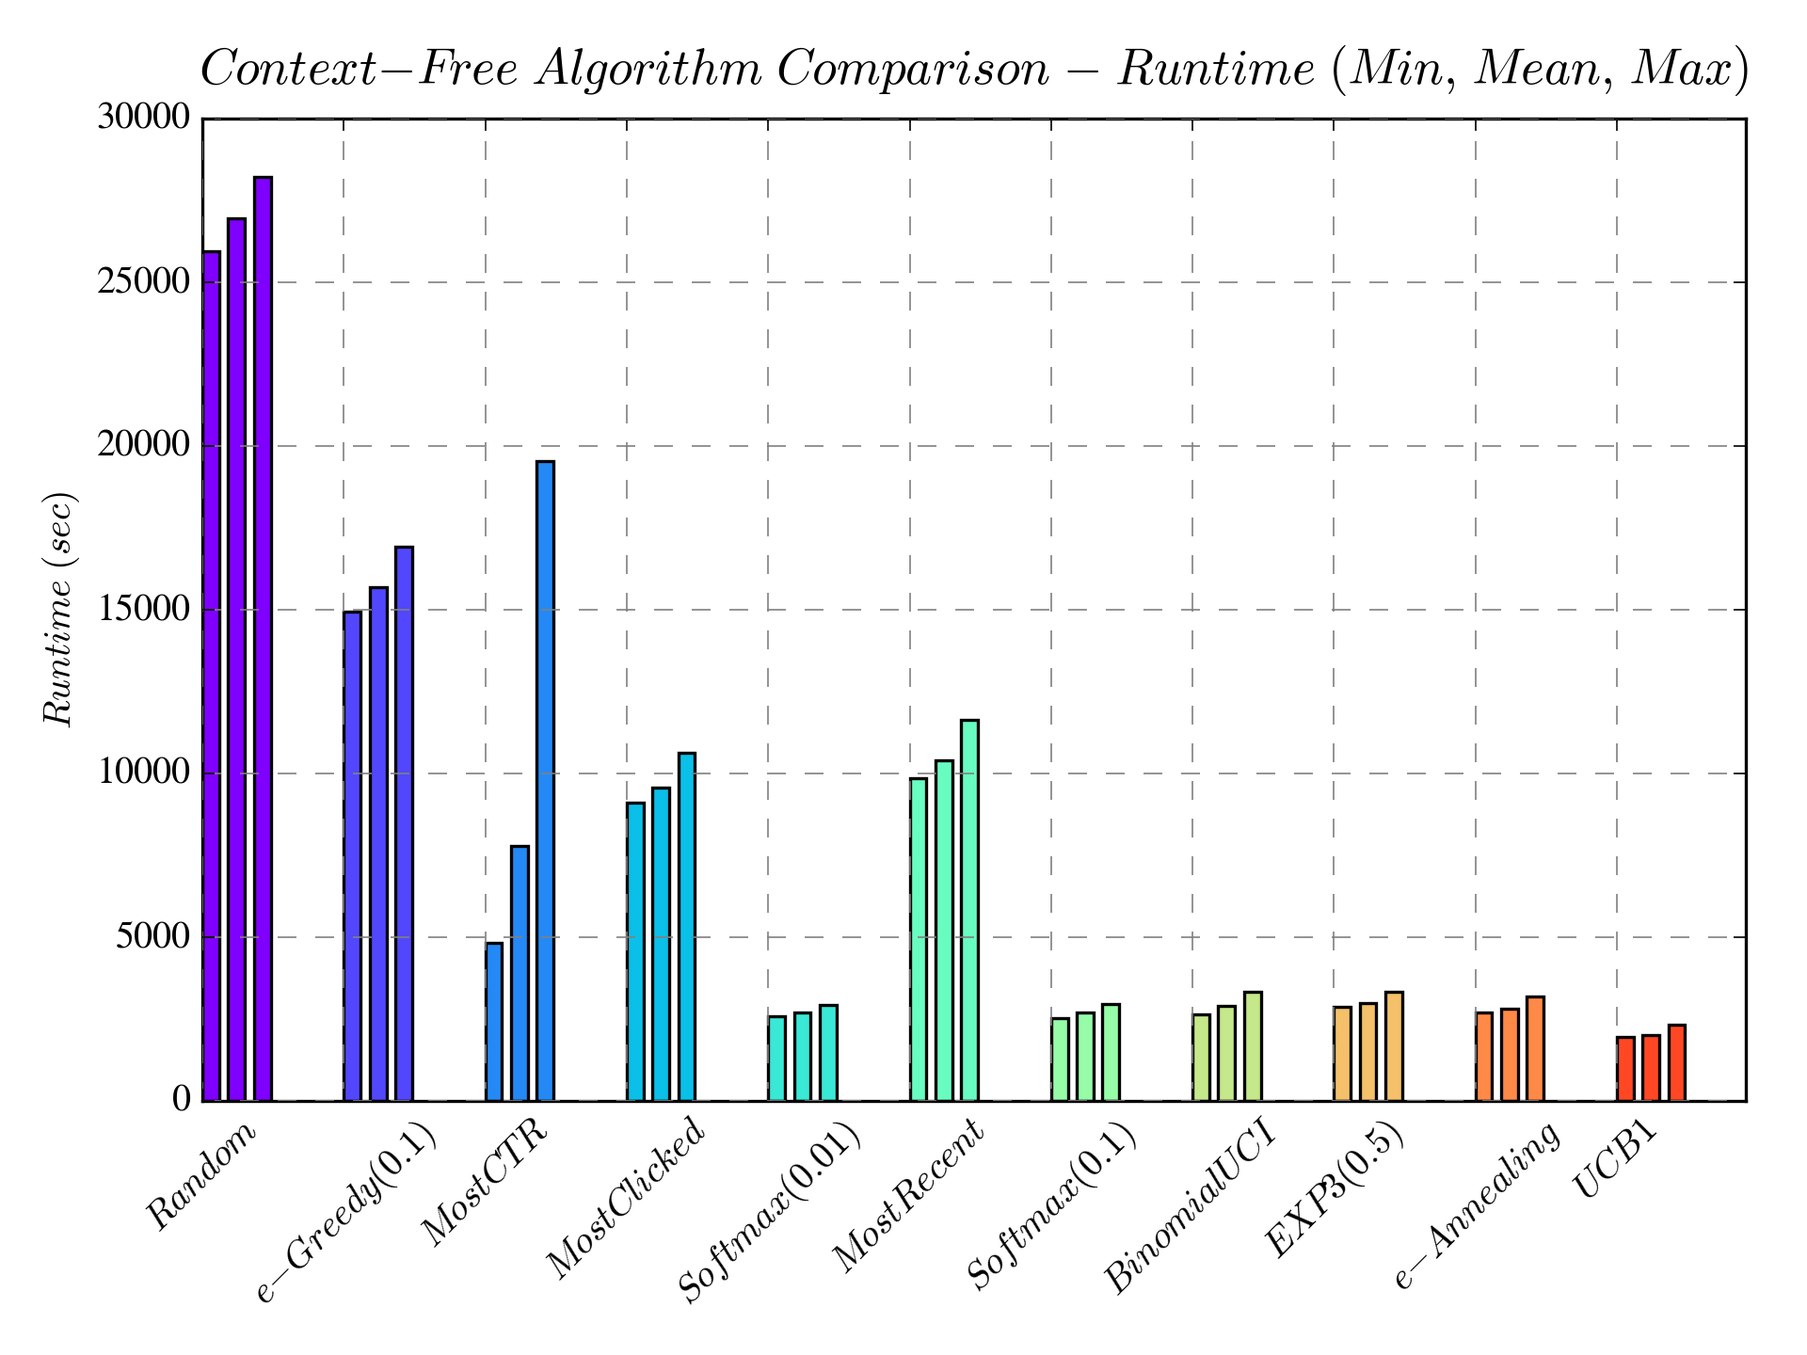
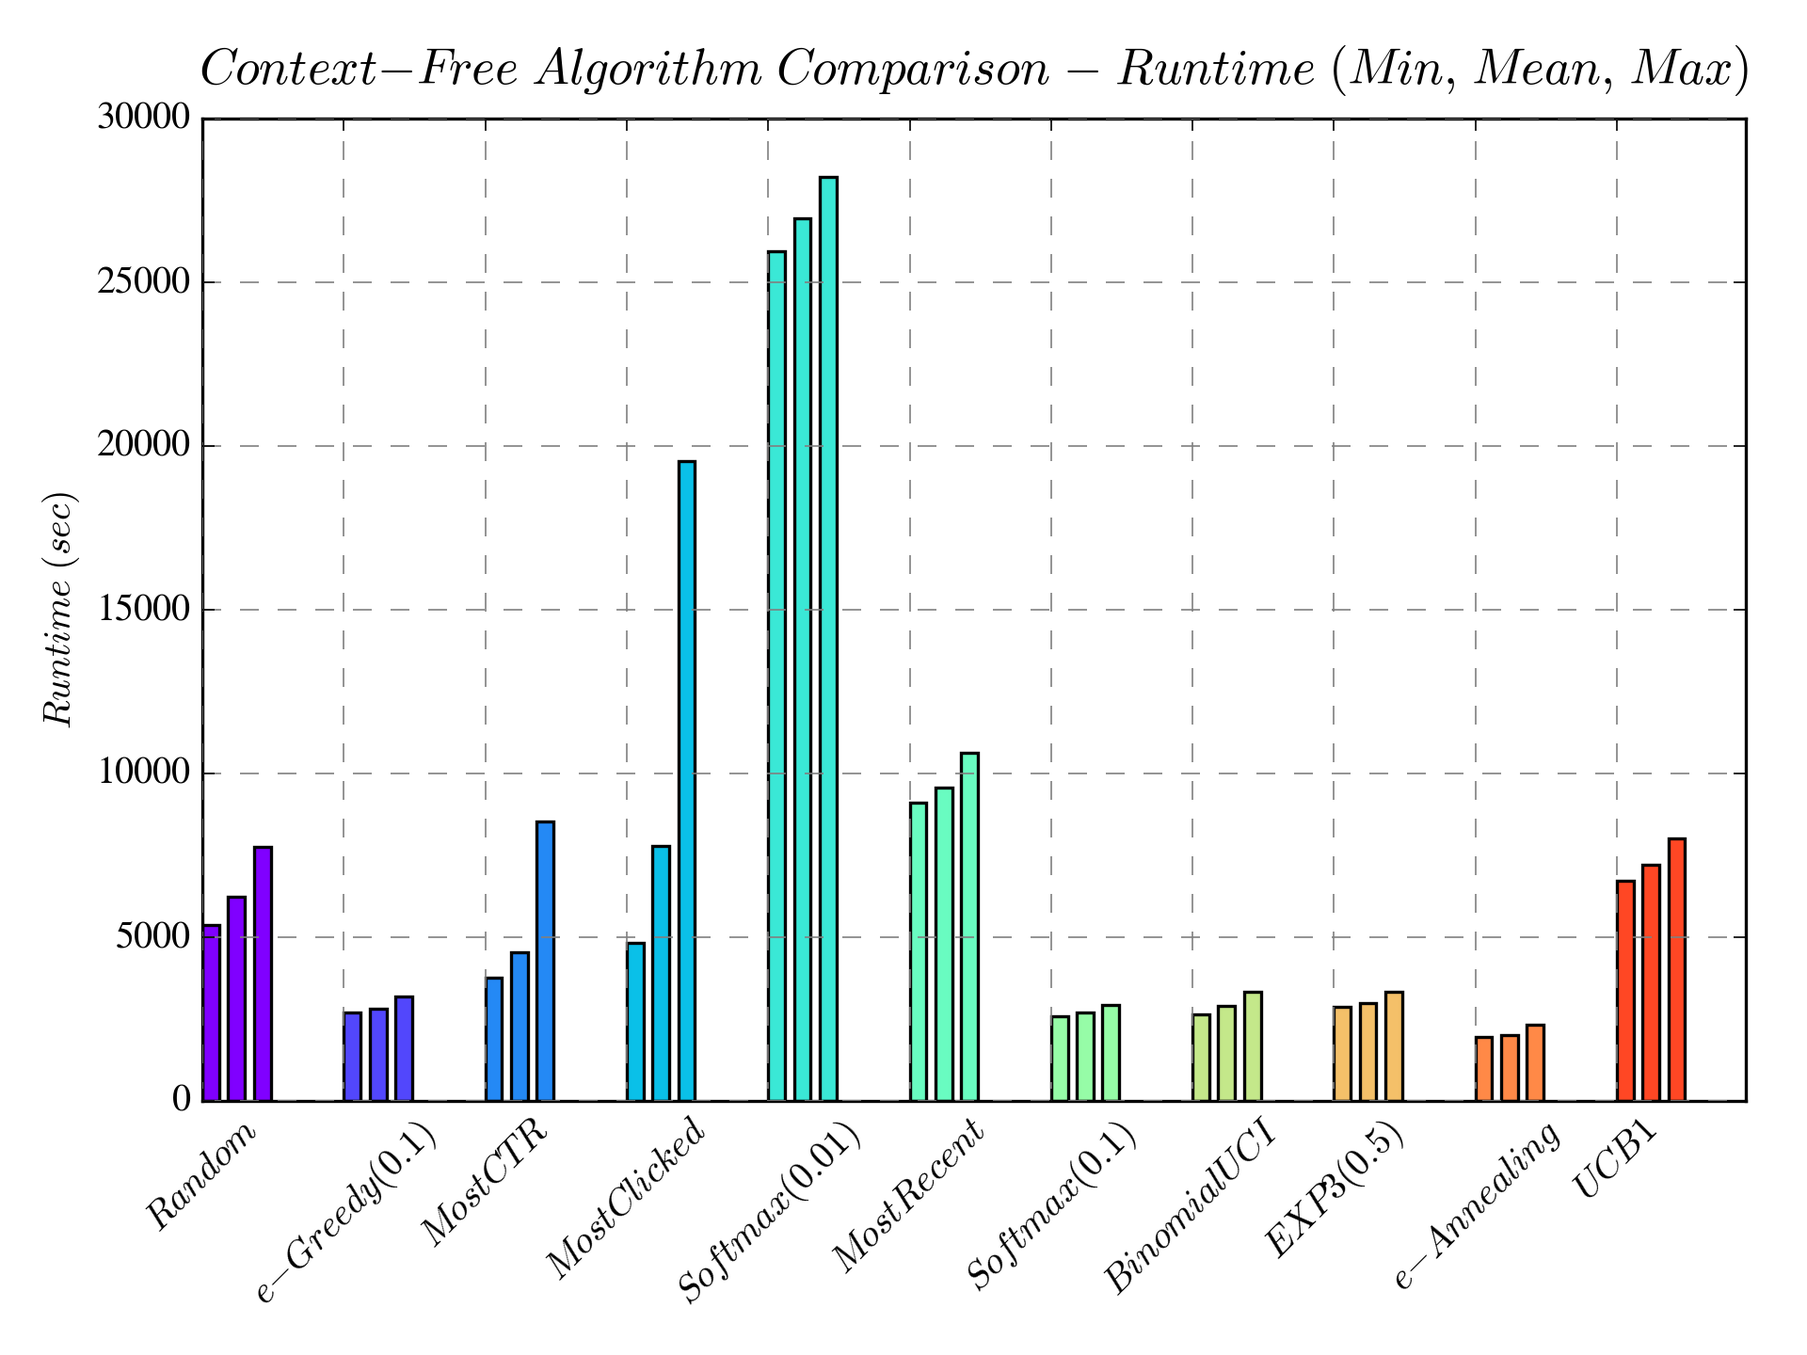
Adding delta plots

diff --git a/create_delta_aer_plot_ensemble.py b/create_delta_aer_plot_ensemble.py
@@ -1,0 +1,55 @@
+__author__ = 'bixlermike'
+
+#/usr/local/bin/python
+
+import matplotlib
+from matplotlib import rc
+from matplotlib.font_manager import FontProperties
+from matplotlib.ticker import MaxNLocator, FormatStrFormatter
+import matplotlib.pyplot as plt
+import numpy as np
+matplotlib.rcParams['mathtext.fontset'] = 'cm'
+matplotlib.rcParams['font.family'] = 'STIXGeneral'
+
+majorFormatter = FormatStrFormatter('%d')
+
+data = np.genfromtxt('banditMaxAERSummary.csv', delimiter=',', names = True)
+data2 = np.genfromtxt('banditMeanAERSummary.csv', delimiter=',', names = True)
+data3 = np.genfromtxt('banditMinAERSummary.csv', delimiter=',', names = True)
+
+fig = plt.figure()
+ax = fig.add_subplot(111)
+
+ax.set_title(r"$Ensemble\ Algorithm\ Comparison\ -\ Delta\ Relative\ AER$", fontsize='16', y=1.02)
+ax.set_xlabel(r"$Number\ of\ Evaluations$")
+ax.set_ylabel(r"$Delta\ Relative\ AER$")
+
+ax.plot(data['NumEvals'],(data['EnsembleRandom']-data3['EnsembleRandom'])/data2['Random'], lw='1.25', label=r'$EnsRandom$', marker='s', markevery=500, fillstyle='none')
+ax.plot(data['NumEvals'],(data['EnsembleRandomUpdateAll']-data3['EnsembleRandomUpdateAll'])/data2['Random'], lw='1.25', label=r'$EnsRandomUpdateAll$', marker='v', markevery=500, fillstyle='none')
+ax.plot(data['NumEvals'],(data['EnsembleEAnnealing']-data3['EnsembleEAnnealing'])/data2['Random'], lw='1.25', label=r'$EnsEAnnealing$', marker='^', markevery=500, fillstyle='none')
+ax.plot(data['NumEvals'],(data['EnsembleBayesian']-data3['EnsembleBayesian'])/data2['Random'], lw='1.25', label=r'$EnsBayesian$', marker='s', markevery=500, fillstyle='none')
+ax.plot(data['NumEvals'],(data['EnsembleBinomialUCI']-data3['EnsembleBinomialUCI'])/data2['Random'], lw='1.25', label=r'$EnsBinomialUCI$', marker='*', markevery=500, fillstyle='none')
+ax.plot(data['NumEvals'],(data['EnsembleSoftmax001']-data3['EnsembleSoftmax001'])/data2['Random'], lw='1.25', label=r'$EnsSoftmax0.01$', color='deepskyblue', marker='>', markevery=500, fillstyle='none')
+ax.plot(data['NumEvals'],(data['EnsembleBinomialUCIMod1']-data3['EnsembleBinomialUCIMod1'])/data2['Random'], lw='1.25', label=r'$EBUCIM1$', marker='+', markevery=500, fillstyle='none')
+ax.plot(data['NumEvals'],(data['EnsembleBinomialUCIMod2']-data3['EnsembleBinomialUCIMod2'])/data2['Random'], lw='1.25', label=r'$EBUCIM2$', color='fuchsia', marker='D', markevery=500, fillstyle='none')
+
+box = ax.get_position()
+ax.set_position([box.x0, box.y0, box.width * 0.8, box.height])
+fontP = FontProperties()
+fontP.set_size('small')
+ax.legend(loc='center left', bbox_to_anchor=(1, 0.5), prop = fontP)
+ax.get_xaxis().set_major_locator(MaxNLocator(integer=True))
+ax.set_xticklabels(ax.xaxis.get_majorticklocs(), rotation=45)
+ax.set_xlim([0, max(data['NumEvals'])])
+ax.set_axisbelow(True)
+#ax.set_ylim([0.8,2.5])
+ax.xaxis.grid(color='gray', linestyle='dashed')
+ax.yaxis.grid(color='gray', linestyle='dashed')
+#ax.get_xaxis().set_major_locator(MaxNLocator(integer=True))
+ax.xaxis.set_major_formatter(majorFormatter)
+#for ymaj in ax1.yaxis.get_majorticklocs():
+#    ax1.axhline(y=ymaj,ls='-')
+
+plt.savefig("plots/deltaAEREnsemble.png", dpi=240, bbox_inches='tight')
+
+

diff --git a/create_delta_aer_plot_contextual.py b/create_delta_aer_plot_contextual.py
@@ -1,0 +1,55 @@
+__author__ = 'bixlermike'
+
+#/usr/local/bin/python
+
+import matplotlib
+from matplotlib import rc
+from matplotlib.font_manager import FontProperties
+from matplotlib.ticker import MaxNLocator, FormatStrFormatter
+import matplotlib.pyplot as plt
+import numpy as np
+matplotlib.rcParams['mathtext.fontset'] = 'cm'
+matplotlib.rcParams['font.family'] = 'STIXGeneral'
+
+
+majorFormatter = FormatStrFormatter('%d')
+
+data = np.genfromtxt('banditMaxAERSummary.csv', delimiter=',', names = True)
+data2 = np.genfromtxt('banditMeanAERSummary.csv', delimiter=',', names = True)
+data3 = np.genfromtxt('banditMinAERSummary.csv', delimiter=',', names = True)
+
+fig = plt.figure()
+ax = fig.add_subplot(111)
+
+ax.set_title(r"$Contextual\ Algorithm\ Comparison\ -\ Delta\ Relative\ AER$", fontsize='16', y=1.02)
+ax.set_xlabel(r"$Number\ of\ Evaluations$")
+ax.set_ylabel(r"$Delta\ Relative\ AER$")
+
+#ax.plot(data['NumEvals'],data['Random'], label='Random')
+ax.plot(data['NumEvals'],(data['eGreedyContextual01']-data3['eGreedyContextual01'])/data2['Random'], lw='1.25', label=r'$e-Greedy(0.1)$', marker='s', markevery=500, fillstyle='none')
+ax.plot(data['NumEvals'],(data['eAnnealingContextual']-data3['eAnnealingContextual'])/data2['Random'], lw='1.25', label=r'$eAnnealing$', marker='v', markevery=500, fillstyle='none')
+ax.plot(data['NumEvals'],(data['SoftmaxContextual001']-data3['SoftmaxContextual001'])/data2['Random'], lw='1.25', label=r'$Softmax(0.01)$', marker='>', markevery=500, fillstyle='none')
+ax.plot(data['NumEvals'],(data['SoftmaxContextual01']-data3['SoftmaxContextual01'])/data2['Random'], lw='1.25', label=r'$Softmax(0.1)$', marker='^', markevery=500, fillstyle='none')
+ax.plot(data['NumEvals'],(data['LinUCB01']-data3['LinUCB01'])/data2['Random'], lw='1.25', label=r'$LinUCB$', marker='s', markevery=500, fillstyle='none')
+ax.plot(data['NumEvals'],(data['NaiveBayesContextual']-data3['NaiveBayesContextual'])/data2['Random'], lw='1.25', label=r'$NaiveBayes$', color='darkorange', marker='*', markevery=500, fillstyle='none')
+
+box = ax.get_position()
+ax.set_position([box.x0, box.y0, box.width * 0.8, box.height])
+fontP = FontProperties()
+fontP.set_size('small')
+ax.legend(loc='center left', bbox_to_anchor=(1, 0.5), prop = fontP)
+ax.get_xaxis().set_major_locator(MaxNLocator(integer=True))
+ax.set_xticklabels(ax.xaxis.get_majorticklocs(), rotation=45)
+ax.set_xlim([0, max(data['NumEvals'])])
+ax.set_axisbelow(True)
+#ax.set_ylim([0.8,2.5])
+ax.xaxis.grid(color='gray', linestyle='dashed')
+ax.yaxis.grid(color='gray', linestyle='dashed')
+#ax.get_xaxis().set_major_locator(MaxNLocator(integer=True))
+ax.xaxis.set_major_formatter(majorFormatter)
+#for ymaj in ax1.yaxis.get_majorticklocs():
+#    ax1.axhline(y=ymaj,ls='-')
+
+plt.savefig("plots/deltaAERContextual.png", dpi=240, bbox_inches='tight')
+
+

diff --git a/create_runtime_plot_ensemble.py b/create_runtime_plot_ensemble.py
@@ -37,7 +37,7 @@ vars = []
 stdevs = []
 dict = {}
 
-colors = iter(cm.rainbow(np.linspace(0.25, 2, len(ys))))
+colors = iter(cm.rainbow(np.linspace(0.2, 2, len(ys))))
 
 for line in data:
     policy, num_sims, mean, min, max, var, stdev = line
@@ -52,14 +52,13 @@ for line in data:
     count+=1
 
 # Contextual
-rects1 = ax.bar((N+2) +ind, (mins[10], means[10], maxs[10]), width, color=next(colors))
-rects2 = ax.bar((2*(N+2)) +ind, (mins[20], means[20], maxs[20]), width, color=next(colors))
-rects3 = ax.bar((3*(N+2)) +ind, (mins[18], means[18], maxs[18]), width, color=next(colors))
-rects4 = ax.bar((4*(N+2)) +ind, (mins[14], means[14], maxs[14]), width, color=next(colors))
-rects5 = ax.bar((5*(N+2)) +ind, (mins[15], means[15], maxs[15]), width, color=next(colors))
-rects6 = ax.bar((6*(N+2)) +ind, (mins[6], means[6], maxs[6]), width, color=next(colors))
-rects7 = ax.bar((7*(N+2)) +ind, (mins[6], means[6], maxs[6]), width, color=next(colors))
-rects8 = ax.bar((8*(N+2)) +ind, (mins[6], means[6], maxs[6]), width, color=next(colors))
+rects1 = ax.bar((N+2) +ind, (mins[8], means[8], maxs[8]), width, color=next(colors))
+rects2 = ax.bar((2*(N+2)) +ind, (mins[2], means[2], maxs[2]), width, color=next(colors))
+rects3 = ax.bar((3*(N+2)) +ind, (mins[3], means[3], maxs[3]), width, color=next(colors))
+rects4 = ax.bar((4*(N+2)) +ind, (mins[6], means[6], maxs[6]), width, color=next(colors))
+rects5 = ax.bar((5*(N+2)) +ind, (mins[9], means[9], maxs[9]), width, color=next(colors))
+rects6 = ax.bar((6*(N+2)) +ind, (mins[4], means[4], maxs[4]), width, color=next(colors))
+rects7 = ax.bar((7*(N+2)) +ind, (mins[5], means[5], maxs[5]), width, color=next(colors))
 
 box = ax.get_position()
 ax.set_position([box.x0, box.y0, box.width * 0.8, box.height])
@@ -75,8 +74,9 @@ ax.set_xticklabels(ax.xaxis.get_majorticklocs(), rotation=45)
 ax.xaxis.set_major_locator(MultipleLocator(5.2))
 plt.tight_layout()
 
-# Contextual
-relevant_policies = [r'$$', r'$Random$', r'$RandomUpdateAll$', r'$eAnnealing$', r'$Bayesian$', r'$BinomialUCI$', r'$Softmax(0.01)$', r'$BinomialUCIMod1$', r'$BinomialUCIMod1$']
+# Ensemble
+relevant_policies = [r'$$', r'$RandomUpdateAll$', r'$Bayesian$', r'$BinomialUCI$', r'$eAnnealing$', r'$Softmax(0.01)$', r'$BinomialUCIMod1$', r'$BinomialUCIMod2$']
+#relevant_policies = [r'$$', r'$Random$', r'$RandomUpdateAll$', r'$eAnnealing$', r'$Bayesian$', r'$BinomialUCI$', r'$Softmax(0.01)$', r'$BinomialUCIMod1$', r'$BinomialUCIMod1$']
 #relevant_policies = [policies[15],policies[13],policies[3],policies[10],policies[7]]
 ax.set_xticklabels(relevant_policies)
 

diff --git a/create_max_aer_plot_ensemble.py b/create_max_aer_plot_ensemble.py
@@ -25,9 +25,8 @@ ax.set_ylabel(r"$Maximum\ Relative\ AER$")
 
 ax.plot(data['NumEvals'],data['EnsembleRandom']/data2['Random'], lw='1.25', label=r'$EnsRandom$', marker='s', markevery=500, fillstyle='none')
 ax.plot(data['NumEvals'],data['EnsembleRandomUpdateAll']/data2['Random'], lw='1.25', label=r'$EnsRandomUpdateAll$', marker='v', markevery=500, fillstyle='none')
-ax.plot(data['NumEvals'],data['EnsembleRandomUpdateAll']/data2['Random'], lw='1.25', label=r'$EnsRandomUpdateAll$', marker='v', markevery=500, fillstyle='none')
 ax.plot(data['NumEvals'],data['EnsembleEAnnealing']/data2['Random'], lw='1.25', label=r'$EnsEAnnealing$', marker='^', markevery=500, fillstyle='none')
-#ax.plot(data['NumEvals'],data['EnsembleBayesian']/data2['Random'], lw='1.25', label=r'$EnsBayesian$', marker='s', markevery=500, fillstyle='none')
+ax.plot(data['NumEvals'],data['EnsembleBayesian']/data2['Random'], lw='1.25', label=r'$EnsBayesian$', marker='s', markevery=500, fillstyle='none')
 ax.plot(data['NumEvals'],data['EnsembleBinomialUCI']/data2['Random'], lw='1.25', label=r'$EnsBinomialUCI$', marker='*', markevery=500, fillstyle='none')
 ax.plot(data['NumEvals'],data['EnsembleSoftmax001']/data2['Random'], lw='1.25', label=r'$EnsSoftmax0.01$', color='deepskyblue', marker='>', markevery=500, fillstyle='none')
 ax.plot(data['NumEvals'],data['EnsembleBinomialUCIMod1']/data2['Random'], lw='1.25', label=r'$EBUCIM1$', marker='+', markevery=500, fillstyle='none')

diff --git a/create_aer_proportion_of_optimal_ensemble_plot.py b/create_aer_proportion_of_optimal_ensemble_plot.py
@@ -25,7 +25,7 @@ ax.set_ylabel(r"$AER\ Proportion\ of\ Optimal\ Policy$")
 ax.plot(data['NumEvals'],data['EnsembleRandom']/data['MaxInRow'], lw='1.25', label=r'$EnsRandom$', marker='o', markevery=500, fillstyle='none')
 ax.plot(data['NumEvals'],data['EnsembleRandomUpdateAll']/data['MaxInRow'], lw='1.25', label=r'$EnsRandomUpdateAll$', marker='v', markevery=500, fillstyle='none')
 ax.plot(data['NumEvals'],data['EnsembleEAnnealing']/data['MaxInRow'], lw='1.25', label=r'$EnsEAnnealing$', marker='^', markevery=500, fillstyle='none')
-#ax.plot(data['NumEvals'],data['EnsembleBayesian']/data['MaxInRow'], lw='1.25', label=r'$EnsBayesian$', marker='s', markevery=500, fillstyle='none')
+ax.plot(data['NumEvals'],data['EnsembleBayesian']/data['MaxInRow'], lw='1.25', label=r'$EnsBayesian$', marker='s', markevery=500, fillstyle='none')
 ax.plot(data['NumEvals'],data['EnsembleBinomialUCI']/data['MaxInRow'], lw='1.25', label=r'$EnsBinomialUCI$', marker='*', markevery=500, fillstyle='none')
 ax.plot(data['NumEvals'],data['EnsembleSoftmax001']/data['MaxInRow'], lw='1.25', label=r'$EnsSoftmax0.01$', color='deepskyblue', marker='>', markevery=500, fillstyle='none')
 ax.plot(data['NumEvals'],data['EnsembleBinomialUCIMod1']/data['MaxInRow'], lw='1.25', label=r'$EBUCIM1$', marker='+', markevery=500, fillstyle='none')

diff --git a/create_aer_proportion_of_optimal_vs_time_ensemble_plot.py b/create_aer_proportion_of_optimal_vs_time_ensemble_plot.py
@@ -25,7 +25,7 @@ ax.set_ylabel(r"$AER\ Proportion\ of\ Optimal\ Policy$")
 ax.plot(data['TimeBin'],data['EnsembleRandom']/data['MaxInRow'], lw='1.25', label=r'$EnsRandom$', marker='o', markevery=20, fillstyle='none')
 ax.plot(data['TimeBin'],data['EnsembleRandomUpdateAll']/data['MaxInRow'], lw='1.25', label=r'$EnsRandomUpdateAll$', marker='v', markevery=20, fillstyle='none')
 ax.plot(data['TimeBin'],data['EnsembleEAnnealing']/data['MaxInRow'], lw='1.25', label=r'$EnsEAnnealing$', marker='^', markevery=20, fillstyle='none')
-#ax.plot(data['TimeBin'],data['EnsembleBayesian']/data['MaxInRow'], lw='1.25', label=r'$EnsBayesian$', marker='s', markevery=20, fillstyle='none')
+ax.plot(data['TimeBin'],data['EnsembleBayesian']/data['MaxInRow'], lw='1.25', label=r'$EnsBayesian$', marker='s', markevery=20, fillstyle='none')
 ax.plot(data['TimeBin'],data['EnsembleBinomialUCI']/data['MaxInRow'], lw='1.25', label=r'$EnsBinomialUCI$', marker='*', markevery=20, fillstyle='none')
 ax.plot(data['TimeBin'],data['EnsembleSoftmax001']/data['MaxInRow'], lw='1.25', label=r'$EnsSoftmax0.01$', color='deepskyblue', marker='>', markevery=20, fillstyle='none')
 ax.plot(data['TimeBin'],data['EnsembleBinomialUCIMod1']/data['MaxInRow'], lw='1.25', label=r'$EBUCIM1$', marker='+', markevery=20, fillstyle='none')

diff --git a/create_min_aer_plot_ensemble.py b/create_min_aer_plot_ensemble.py
@@ -26,7 +26,7 @@ ax.set_ylabel(r"$Minimum\ Relative\ AER$")
 ax.plot(data['NumEvals'],data['EnsembleRandom']/data2['Random'], lw='1.25', label=r'$EnsRandom$', marker='s', markevery=500, fillstyle='none')
 ax.plot(data['NumEvals'],data['EnsembleRandomUpdateAll']/data2['Random'], lw='1.25', label=r'$EnsRandomUpdateAll$', marker='v', markevery=500, fillstyle='none')
 ax.plot(data['NumEvals'],data['EnsembleEAnnealing']/data2['Random'], lw='1.25', label=r'$EnsEAnnealing$', marker='^', markevery=500, fillstyle='none')
-#ax.plot(data['NumEvals'],data['EnsembleBayesian']/data2['Random'], lw='1.25', label=r'$EnsBayesian$', marker='s', markevery=500, fillstyle='none')
+ax.plot(data['NumEvals'],data['EnsembleBayesian']/data2['Random'], lw='1.25', label=r'$EnsBayesian$', marker='s', markevery=500, fillstyle='none')
 ax.plot(data['NumEvals'],data['EnsembleBinomialUCI']/data2['Random'], lw='1.25', label=r'$EnsBinomialUCI$', marker='*', markevery=500, fillstyle='none')
 ax.plot(data['NumEvals'],data['EnsembleSoftmax001']/data2['Random'], lw='1.25', label=r'$EnsSoftmax0.01$', color='deepskyblue', marker='>', markevery=500, fillstyle='none')
 ax.plot(data['NumEvals'],data['EnsembleBinomialUCIMod1']/data2['Random'], lw='1.25', label=r'$EBUCIM1$', marker='+', markevery=500, fillstyle='none')

diff --git a/create_mean_aer_plot_ensemble.py b/create_mean_aer_plot_ensemble.py
@@ -24,7 +24,7 @@ ax.set_ylabel(r"$Mean\ Relative\ AER$")
 ax.plot(data['NumEvals'],data['EnsembleRandom']/data['Random'], lw='1.25', label=r'$EnsRandom$', marker='o', markevery=500, fillstyle='none')
 ax.plot(data['NumEvals'],data['EnsembleRandomUpdateAll']/data['Random'], lw='1.25', label=r'$EnsRandomUpdateAll$', marker='v', markevery=500, fillstyle='none')
 ax.plot(data['NumEvals'],data['EnsembleEAnnealing']/data['Random'], lw='1.25', label=r'$EnsEAnnealing$', marker='^', markevery=500, fillstyle='none')
-#ax.plot(data['NumEvals'],data['EnsembleBayesian']/data['Random'], lw='1.25', label=r'$EnsBayesian$', marker='s', markevery=500, fillstyle='none')
+ax.plot(data['NumEvals'],data['EnsembleBayesian']/data['Random'], lw='1.25', label=r'$EnsBayesian$', marker='s', markevery=500, fillstyle='none')
 ax.plot(data['NumEvals'],data['EnsembleBinomialUCI']/data['Random'], lw='1.25', label=r'$EnsBinomialUCI$', marker='*', markevery=500, fillstyle='none')
 ax.plot(data['NumEvals'],data['EnsembleSoftmax001']/data['Random'], lw='1.25', label=r'$EnsSoftmax0.01$', color='deepskyblue', marker='>', markevery=500, fillstyle='none')
 ax.plot(data['NumEvals'],data['EnsembleBinomialUCIMod1']/data['Random'], lw='1.25', label=r'$EBUCIM1$', marker='+', markevery=500, fillstyle='none')

diff --git a/create_mean_aer_vs_time_plot_ensemble.py b/create_mean_aer_vs_time_plot_ensemble.py
@@ -25,7 +25,7 @@ ax.set_ylabel(r"$Mean\ Relative\ AER$")
 ax.plot(data['TimeBin'],data['EnsembleRandom']/data['Random'], lw='1.25', label=r'$EnsRandom$', marker='o', markevery=50, fillstyle='none')
 ax.plot(data['TimeBin'],data['EnsembleRandomUpdateAll']/data['Random'], lw='1.25', label=r'$EnsRandomUpdateAll$', marker='v', markevery=50, fillstyle='none')
 ax.plot(data['TimeBin'],data['EnsembleEAnnealing']/data['Random'], lw='1.25', label=r'$EnsEAnnealing$', marker='^', markevery=50, fillstyle='none')
-#ax.plot(data['TimeBin'],data['EnsembleBayesian']/data['Random'], lw='1.25', label=r'$EnsBayesian$', marker='s', markevery=50, fillstyle='none')
+ax.plot(data['TimeBin'],data['EnsembleBayesian']/data['Random'], lw='1.25', label=r'$EnsBayesian$', marker='s', markevery=50, fillstyle='none')
 ax.plot(data['TimeBin'],data['EnsembleBinomialUCI']/data['Random'], lw='1.25', label=r'$EnsBinomialUCI$', marker='*', markevery=50, fillstyle='none')
 ax.plot(data['TimeBin'],data['EnsembleSoftmax001']/data['Random'], lw='1.25', label=r'$EnsSoftmax0.01$', color='deepskyblue', marker='>', markevery=50, fillstyle='none')
 #ax.plot(data['TimeBin'],data['EnsembleBinomialUCIMod1']/data['Random'], lw='1.25', label=r'$EBUCIM1$', marker='+', markevery=50, fillstyle='none')

diff --git a/create_stdev_aer_plot_ensemble.py b/create_stdev_aer_plot_ensemble.py
@@ -24,7 +24,7 @@ ax.set_ylabel(r"$Standard\ Deviation$")
 ax.plot(data['NumEvals'],data['EnsembleRandom'], lw='1.25', label=r'$EnsRandom$', marker='o', markevery=500, fillstyle='none')
 ax.plot(data['NumEvals'],data['EnsembleRandomUpdateAll'], lw='1.25', label=r'$EnsRandomUpdateAll$', marker='v', markevery=500, fillstyle='none')
 ax.plot(data['NumEvals'],data['EnsembleEAnnealing'], lw='1.25', label=r'$EnsEAnnealing$', marker='^', markevery=500, fillstyle='none')
-#ax.plot(data['NumEvals'],data['EnsembleBayesian'], lw='1.25', label=r'$EnsBayesian$', marker='s', markevery=500, fillstyle='none')
+ax.plot(data['NumEvals'],data['EnsembleBayesian'], lw='1.25', label=r'$EnsBayesian$', marker='s', markevery=500, fillstyle='none')
 ax.plot(data['NumEvals'],data['EnsembleBinomialUCI'], lw='1.25', label=r'$EnsBinomialUCI$', marker='*', markevery=500, fillstyle='none')
 ax.plot(data['NumEvals'],data['EnsembleSoftmax001'], lw='1.25', label=r'$EnsSoftmax0.01$', color='deepskyblue', marker='>', markevery=500, fillstyle='none')
 ax.plot(data['NumEvals'],data['EnsembleBinomialUCIMod1'], lw='1.25', label=r'$EBUCIM1$', marker='+', markevery=500, fillstyle='none')

diff --git a/exploChallenge/policies/EnsembleBayesian.py b/exploChallenge/policies/EnsembleBayesian.py
@@ -106,7 +106,7 @@ class EnsembleBayesian(ContextualBanditPolicy):
 
         if (self.updates % 100 == 0):
             for i in self.policies:
-                print str("EnsembleBayesianUpdateAll") + "," + str(self.policy_nicknames[self.policies.index(i)]) + "," + \
+                print str("EnsembleBayesian") + "," + str(self.policy_nicknames[self.policies.index(i)]) + "," + \
                       str(self.updates) + "," + str(float(self.policy_counts[str(i)])/self.updates)
-                output_file.write(str("EnsembleBayesianUpdateAll") + "," + str(self.policy_nicknames[self.policies.index(i)]) + ","
+                output_file.write(str("EnsembleBayesian") + "," + str(self.policy_nicknames[self.policies.index(i)]) + ","
                                   + str(self.updates) + "," + str(float(self.policy_counts[str(i)])/self.updates) + "\n")
